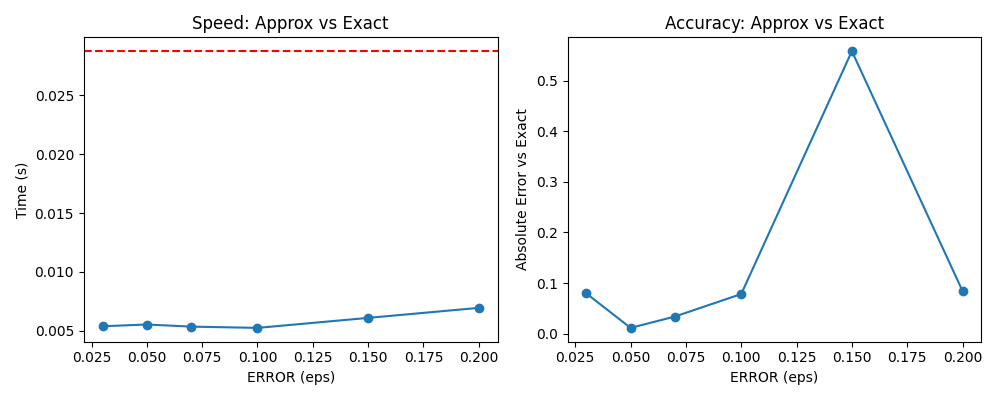
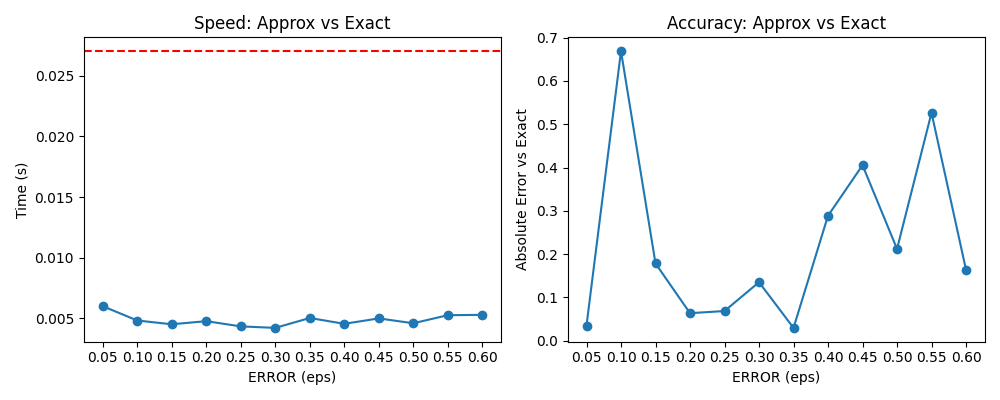
feat: increased steps on error

diff --git a/benchmarks.py b/benchmarks.py
@@ -9,6 +9,7 @@ from execute import execute_query
 import matplotlib
 matplotlib.use("Agg")
 import matplotlib.pyplot as plt
+import math
 
 
 def _to_float(x):
@@ -80,9 +81,10 @@ def plot_benchmarks(result: Dict[str, Any], out_path: str):
     exact = result["exact"]
     approx = result["approx"]
 
-    xs = [p["eps"] for p in approx]
-    times = [p["time"] for p in approx]
-    errors = [p["abs_error"] for p in approx]
+    approx_sorted = sorted(approx, key=lambda p: p["eps"]) if approx else []
+    xs = [p["eps"] for p in approx_sorted]
+    times = [p["time"] for p in approx_sorted]
+    errors = [p["abs_error"] for p in approx_sorted]
 
     fig, axes = plt.subplots(1, 2, figsize=(10, 4))
 
@@ -97,6 +99,14 @@ def plot_benchmarks(result: Dict[str, Any], out_path: str):
     axes[1].set_ylabel("Absolute Error vs Exact")
     axes[1].set_title("Accuracy: Approx vs Exact")
 
+    if xs:
+        start = math.floor(min(xs) / 0.05) * 0.05
+        end = math.ceil(max(xs) / 0.05) * 0.05
+        steps = int(round((end - start) / 0.05))
+        ticks = [round(start + i * 0.05, 2) for i in range(steps + 1)]
+        axes[0].set_xticks(ticks)
+        axes[1].set_xticks(ticks)
+
     fig.tight_layout()
     fig.savefig(out_path)
 
@@ -104,14 +114,14 @@ def plot_benchmarks(result: Dict[str, Any], out_path: str):
 if __name__ == "__main__":
     env = QQLEnv()
     db = PSQL(
-        dbname=env.dbname or 'postgres',
-        user=env.username or 'ethernode',
-        password=env.password or 'sd1312004',
-        host=env.host or '127.0.0.1',
-        port=str(env.port or 5432),
+        dbname=env.dbname,
+        user=env.username,
+        password=env.password,
+        host=env.host,
+        port=str(env.port),
     )
 
-    errors = [0.20, 0.15, 0.10, 0.07, 0.05, 0.03]
+    errors = [round(i * 0.05, 2) for i in range(1, 13)]
 
     import os
     os.makedirs("generated", exist_ok=True)
@@ -119,17 +129,17 @@ if __name__ == "__main__":
     suites = [
         (
             "avg",
-            "SELECT APPROX AVG(price) FROM pizza_orders ERROR 0.05 PROB 0.95;",
+            "SELECT APPROX AVG(price) FROM pizza_orders ERROR 0.05 PROB 0.98;",
             "SELECT AVG(price) FROM pizza_orders;",
         ),
         (
             "sum",
-            "SELECT APPROX SUM(price) FROM pizza_orders ERROR 0.05 PROB 0.95;",
+            "SELECT APPROX SUM(price) FROM pizza_orders ERROR 0.05 PROB 0.98;",
             "SELECT SUM(price) FROM pizza_orders;",
         ),
         (
             "count",
-            "SELECT APPROX COUNT(price) FROM pizza_orders ERROR 0.05 PROB 0.95;",
+            "SELECT APPROX COUNT(price) FROM pizza_orders ERROR 0.05 PROB 0.98;",
             "SELECT COUNT(price) FROM pizza_orders;",
         ),
     ]
